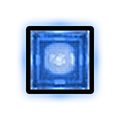
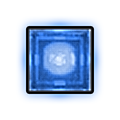
Botones: prendido y apagado del mismo tamano [skip ci]
Claude-Session: https://claude.ai/code/session_01LmYTuHAKQSU8qhR6nNkVAi

Changed region(s): [[0.225, 0.225, 0.775, 0.775]]

diff --git a/UI_definitiva/generadores/button_from_ref.py b/UI_definitiva/generadores/button_from_ref.py
@@ -37,7 +37,7 @@ def build(src, body, name, lit):
     pm = np.dstack([rgb*alpha[..., None], alpha])           # premultiplicado para que no salgan bordes
     big = Image.fromarray((np.clip(pm, 0, 1)*65535).astype(np.uint16)[..., 0]) if False else None
     chans = [Image.fromarray(pm[..., k].astype(np.float32), 'F') for k in range(4)]
-    f = (TW - (2*1.4 if lit else 0))/(x1 - x0 + 1)   # el cuerpo conserva su medida; el marco negro va por fuera (hueco de la chapa)            # factor de escala al tamano final (cuerpo + marquito = TW)
+    f = TW/(x1 - x0 + 1)   # el cuerpo conserva su medida; el marco negro va por fuera (hueco de la chapa)            # factor de escala al tamano final (cuerpo + marquito = TW)
     n = 120
     res = np.zeros((n, n, 4), np.float32)
     # transformacion: centro del cuerpo -> centro 60,60 del png final
